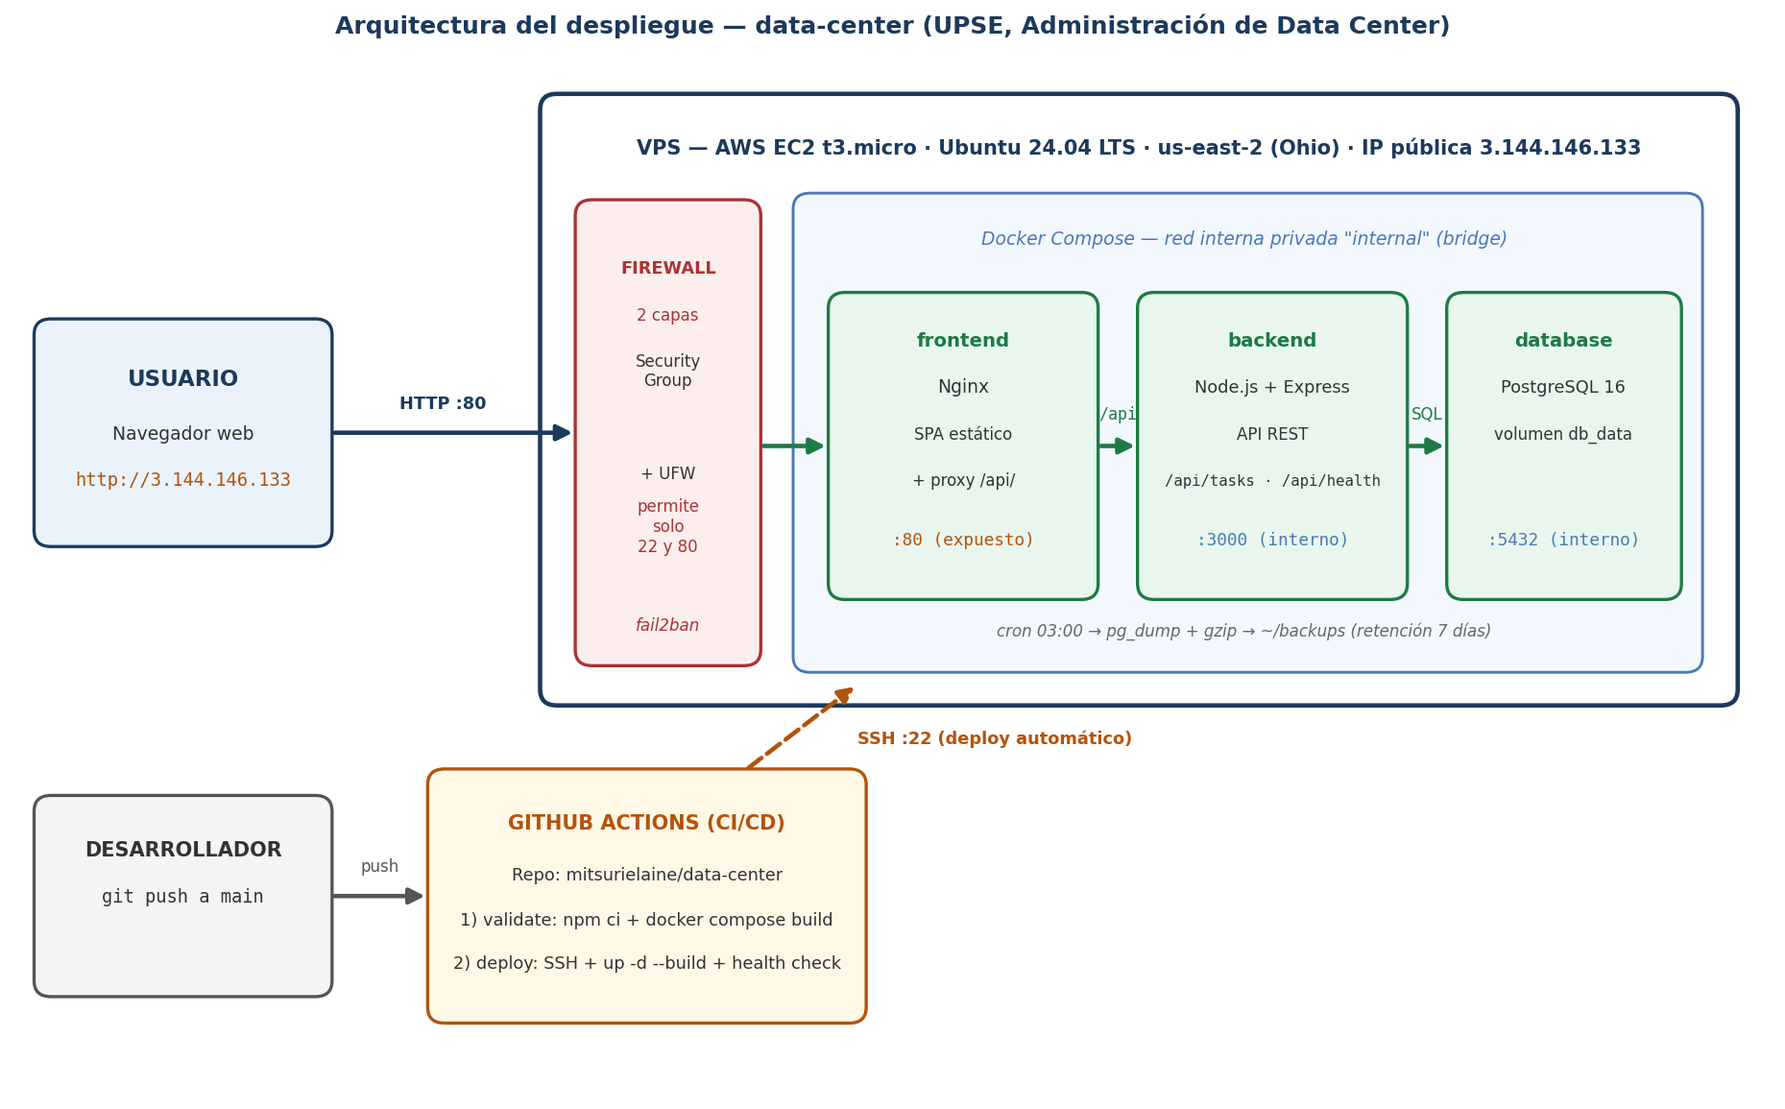
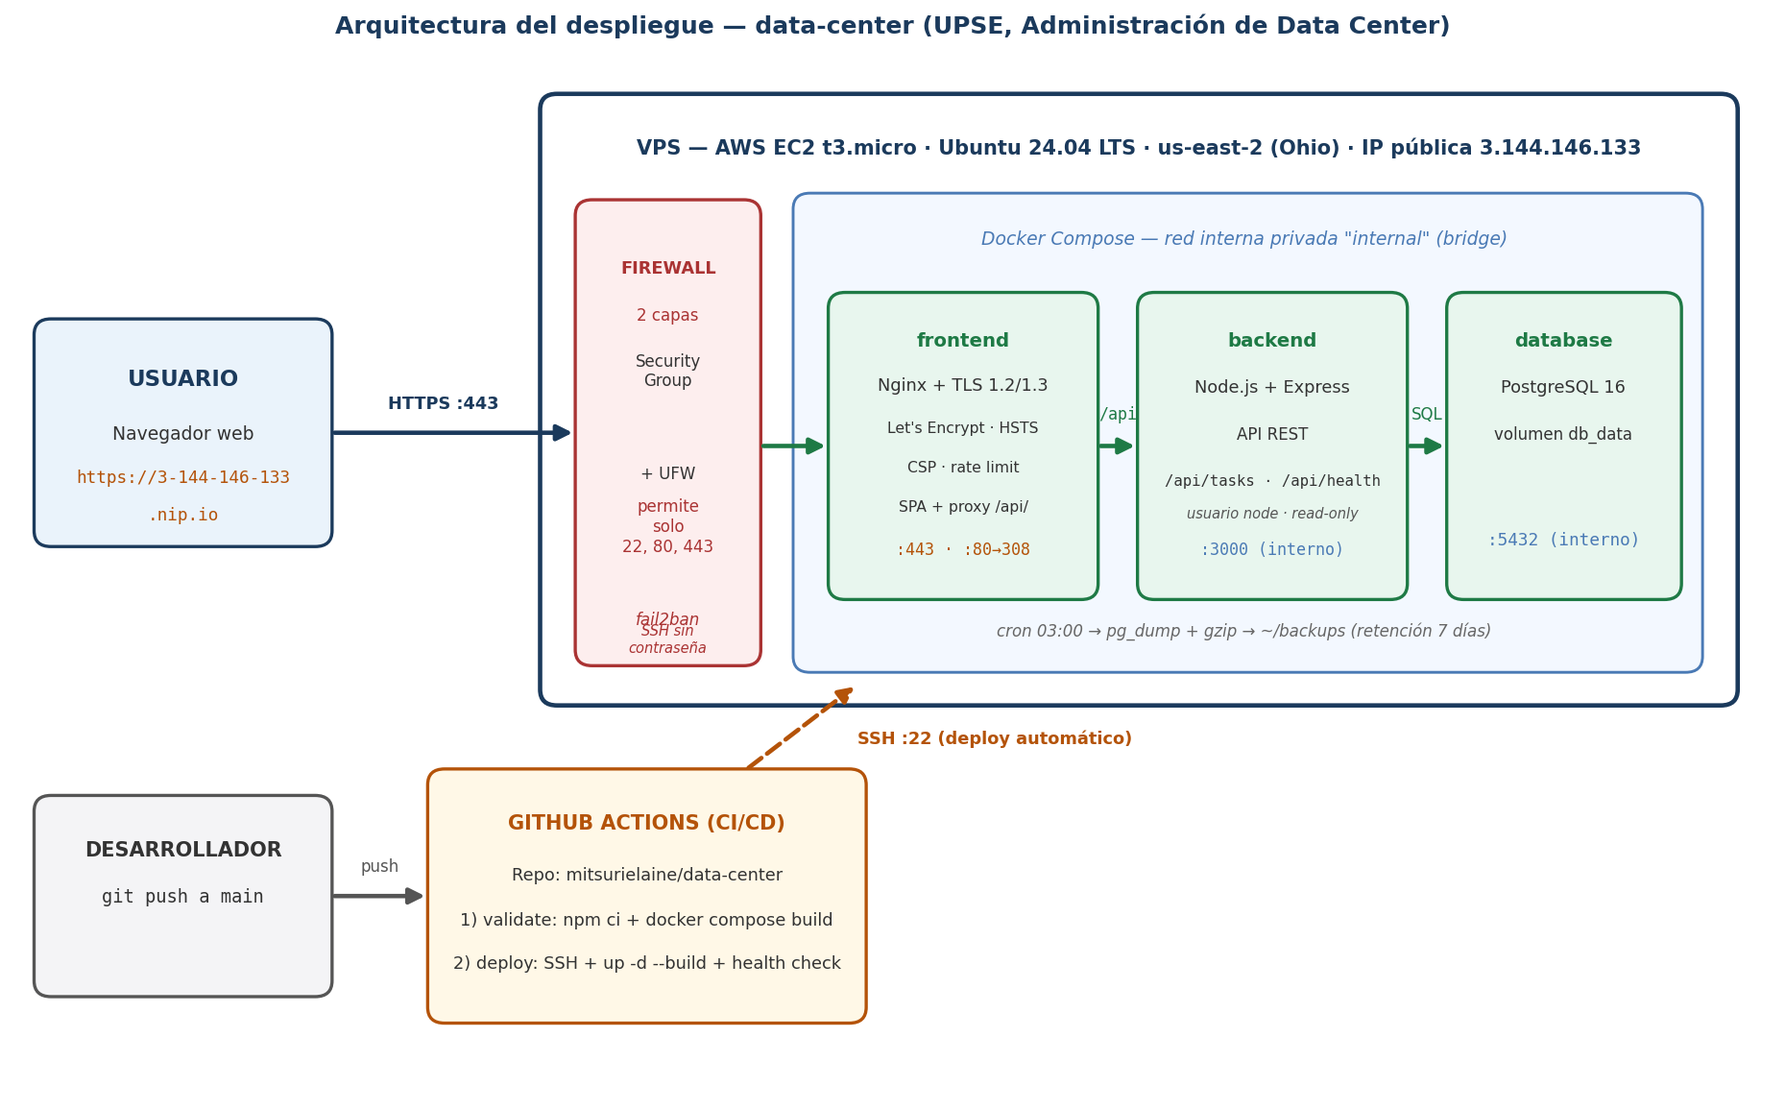
Documentar auditoria de seguridad (19 hallazgos corregidos), HTTPS y diagrama actualizado

diff --git a/INFORME_PLANTILLA.md b/INFORME_PLANTILLA.md
@@ -4,10 +4,11 @@
 **Docente:** Ing. Carlos Muñoz M.
 **Autor:** Marisa Eliana Matias Alcivar
 
-> Esta plantilla sigue exactamente las 4 secciones que exige el enunciado (punto 2) y los 5
-> criterios de la rúbrica (punto 3). Cada `[COMPLETAR: ...]` se llena con datos reales una vez
-> hecho el despliegue — no se inventa nada, se documenta lo que realmente pasó (incluyendo
-> errores y cómo se resolvieron, como pide una bitácora real).
+> Este informe sigue las 4 secciones que exige el enunciado (punto 2) y los 5 criterios de la
+> rúbrica (punto 3), y añade una sección de auditoría de seguridad (5) con las correcciones
+> aplicadas sobre el servicio ya en producción. Todos los datos son reales y verificados: nada
+> está inventado. Se documentan también los errores que surgieron y cómo se resolvieron, como
+> corresponde a una bitácora real.
 
 ---
 
@@ -21,33 +22,38 @@ La aplicación se ejecuta en una única instancia EC2 de AWS mediante contenedor
 orquestados con Docker Compose. Tres servicios conforman el stack: un contenedor **frontend**
 (Nginx sirviendo el SPA estático y actuando como proxy inverso hacia la API), un contenedor
 **backend** (API REST en Node.js/Express) y un contenedor **database** (PostgreSQL 16). Los tres
-se comunican mediante una red bridge privada de Docker (`internal`); solo Nginx publica el
-puerto 80 hacia internet.
+se comunican mediante una red bridge privada de Docker (`internal`); solo Nginx publica puertos
+hacia internet: el 443 (HTTPS) para la aplicación y el 80 únicamente para redirigir a HTTPS y
+atender la validación del certificado.
 
-Acceso: `http://3.144.146.133` (sin dominio propio, según lo definido para este
-trabajo).
+Acceso: `https://3-144-146-133.nip.io` (HTTPS con certificado de Let's Encrypt). Al no
+disponer de dominio propio se emplea el servicio gratuito **nip.io**, que resuelve el
+subdominio a la IP que lleva incrustada en el nombre (3.144.146.133) sin necesidad de
+configurar DNS. Todo acceso por HTTP se redirige a HTTPS con un 308.
 
 ### 1.2 Diagrama de arquitectura
 
 ![Diagrama de arquitectura](diagrama_arquitectura.png)
 
-Usuario → HTTP:80 → VPS AWS EC2 (3.144.146.133) → [Security Group + UFW] → frontend
-(Nginx:80, único puerto expuesto) → backend (Node/Express:3000, red interna) → database
-(PostgreSQL 16:5432, red interna). En paralelo: desarrollador → push a `main` → GitHub
-Actions (validate + deploy por SSH:22) → VPS.
+Usuario → HTTPS:443 → VPS AWS EC2 (3.144.146.133) → [Security Group + UFW + fail2ban] →
+frontend (Nginx con TLS de Let's Encrypt, CSP y rate limiting; el 80 solo redirige con 308) →
+backend (Node/Express:3000, red interna, usuario sin privilegios y sistema de archivos de solo
+lectura) → database (PostgreSQL 16:5432, red interna). En paralelo: desarrollador → push a
+`main` → GitHub Actions (validate + deploy por SSH:22) → VPS.
 
 ### 1.3 Componentes principales
 
 | Componente | Tecnología | Función |
 |---|---|---|
 | Instancia VPS | AWS EC2 t3.micro, Ubuntu 24.04 LTS | Servidor real con IP pública 3.144.146.133 (región us-east-2, Ohio) |
-| Frontend | Nginx + HTML/CSS/JS | Sirve el SPA, proxy `/api/` hacia el backend |
-| Backend | Node.js + Express | API REST (`/api/tasks`, `/api/health`), solo en red interna |
+| Frontend | Nginx + HTML/CSS/JS | Sirve el SPA, termina TLS 1.2/1.3, aplica CSP y rate limiting, proxy `/api/` hacia el backend |
+| Certificados | Let's Encrypt + certbot | Certificado TLS para `3-144-146-133.nip.io`, renovación semanal automática |
+| Backend | Node.js + Express + helmet | API REST (`/api/tasks`, `/api/health`), solo en red interna, corre como usuario sin privilegios |
 | Database | PostgreSQL 16 | Persiste las tareas; puerto 5432 solo accesible internamente |
 | Orquestación | Docker Compose | `docker-compose.yml` versionado en Git |
 | CI/CD | GitHub Actions | Valida y despliega por SSH ante cada push a `main` |
-| Firewall de red | AWS Security Group | Filtra 22/80 a nivel de nube |
-| Firewall de sistema | UFW | Segunda capa de filtrado dentro del VPS |
+| Firewall de red | AWS Security Group | Filtra 22/80/443 a nivel de nube |
+| Firewall de sistema | UFW | Segunda capa de filtrado dentro del VPS (22/80/443) |
 | Respaldos | cron + `pg_dump` + gzip | Respaldo diario con retención de 7 días |
 
 ---
@@ -73,9 +79,12 @@ Actions (validate + deploy por SSH:22) → VPS.
 | 8 | Clonado del repositorio | Se generó una deploy key ED25519 dedicada en el VPS (`~/.ssh/deploy_key`) y se registró en el repo vía API de GitHub con `"read_only": true` (el servidor solo puede leer, nunca escribir). Con `~/.ssh/config` apuntando a esa llave, `git clone git@github.com:mitsurielaine/data-center.git ~/data-center` clonó sin problemas. |
 | 9 | Variables de entorno | `.env` creado a partir de `.env.example`; `DB_PASSWORD` generada directamente en el servidor con `openssl rand -hex 20` (nunca pasó por el chat ni quedó versionada — `.env` está en `.gitignore`). |
 | 10 | Primer despliegue | `docker compose up -d --build`: build completo en ~9 s (t3.micro con swap, sin cuelgues). `docker compose ps`: `data-center-db` (postgres:16-alpine) **healthy**, `data-center-backend` y `data-center-frontend` **Up**; solo el frontend publica `0.0.0.0:80->80`. `curl http://localhost/api/health` → `{"status":"ok","db":"connected"}`. |
-| 11 | Verificación funcional | `http://3.144.146.133/api/health` respondió `{"status":"ok","db":"connected"}` desde internet (verificado desde fuera de la red del VPS). CRUD probado manualmente en el navegador vía IP pública: se creó la tarea "Prueba de url", se marcó como completada, se probó el filtro por título y la eliminación. El panel muestra los contadores (pendientes/completadas/total) sincronizados con la base. | |
+| 11 | Verificación funcional | `http://3.144.146.133/api/health` respondió `{"status":"ok","db":"connected"}` desde internet (verificado desde fuera de la red del VPS). CRUD probado manualmente en el navegador vía IP pública: se creó la tarea "Prueba de url", se marcó como completada, se probó el filtro por título y la eliminación. El panel muestra los contadores (pendientes/completadas/total) sincronizados con la base. |
 | 12 | fail2ban | Instalado fail2ban 1.0.2 con el jail `sshd` activo (`systemctl enable --now fail2ban`). Mitiga fuerza bruta sobre SSH, necesario porque el puerto 22 se abrió a 0.0.0.0/0 para los runners de GitHub Actions (IPs dinámicas). |
-| 13 | Respaldos automáticos | Cron diario 03:00 con `pg_dump` + gzip, retención 7 días |
+| 13 | Respaldos automáticos | Cron diario 03:00 con `pg_dump` + gzip, retención 7 días. Prueba manual exitosa: `tasksdb_2026-07-24_022013.sql.gz` (976 B) generado en `~/backups/`. |
+| 14 | Auditoría de seguridad | Escaneo externo de la URL pública con Cloudflare URL Scanner + revisión manual del código (frontend, API, Dockerfiles y compose). 19 hallazgos detectados y corregidos — ver sección 5. |
+| 15 | HTTPS con Let's Encrypt | Puerto 443 abierto en Security Group y UFW. Certificado emitido para `3-144-146-133.nip.io` mediante certbot con desafío HTTP-01 por webroot (válido hasta 2026-10-28). Renovación automática semanal por cron con recarga de Nginx. Se verificó el circuito ACME con un archivo de prueba antes de solicitar el certificado, para no consumir los intentos que limita Let's Encrypt. |
+| 16 | Endurecimiento del servidor | SSH: `PasswordAuthentication no`, `PermitRootLogin no`, `MaxAuthTries 3`, `AllowUsers ubuntu`. fail2ban: 3 intentos, baneo de 1 h, ventana de 10 min. `unattended-upgrades` habilitado para parches automáticos. `chmod 600` en `.env`. |
 
 ---
 
@@ -157,7 +166,106 @@ detectar incidentes sin entrar al servidor.
 
 ---
 
-## 5. Conclusión
+---
+
+## 5. Auditoría de Seguridad y Correcciones Aplicadas
+
+*(Rúbrica 4.4 — servicios optimizados y seguros)*
+
+Una vez el servicio estuvo en producción se realizó una auditoría en cuatro capas:
+un escaneo externo de la URL pública con **Cloudflare URL Scanner** (que reporta las
+cabeceras de respuesta y las peticiones que hace el sitio) y una **revisión manual del
+código** del frontend, de la API, de los Dockerfiles y del `docker-compose.yml`. Se
+detectaron 19 hallazgos y se corrigieron todos. La tabla resume cada uno con su
+evidencia de verificación.
+
+### 5.1 Capa de transporte y cabeceras HTTP
+
+| # | Hallazgo | Riesgo | Corrección aplicada | Verificación |
+|---|---|---|---|---|
+| 1 | Sitio servido solo por HTTP, sin cifrado | Alto — credenciales y datos viajan en claro; permite interceptación y modificación en tránsito | TLS 1.2/1.3 con certificado de Let's Encrypt para `3-144-146-133.nip.io` (servicio gratuito, sin dominio propio). Servicio `certbot` con desafío HTTP-01 por webroot y renovación automática semanal por cron | `curl -I https://3-144-146-133.nip.io` → `HTTP/2 200` con certificado válido |
+| 2 | Sin redirección de HTTP a HTTPS | Medio — el usuario podía seguir navegando sin cifrado | Redirección **308** (no 301: preserva el método, un 301 convertiría un POST en GET). El puerto 80 solo conserva el desafío ACME y la sonda de salud | `curl -I http://3-144-146-133.nip.io` → `308 Permanent Redirect` |
+| 3 | Sin `Strict-Transport-Security` (HSTS) | Medio — vulnerable a degradación a HTTP en la primera visita | HSTS con `max-age=31536000; includeSubDomains`, emitido solo cuando el certificado es de confianza | Cabecera `strict-transport-security` presente en la respuesta |
+| 4 | Sin `Content-Security-Policy` | Alto — sin defensa en profundidad frente a inyección de scripts | CSP restrictiva **sin `unsafe-inline`**: `default-src 'self'`, `object-src 'none'`, `frame-ancestors 'none'`, `base-uri 'none'`. Exigió refactorizar el frontend (ver 5.2) | Cabecera `content-security-policy` completa en la respuesta |
+| 5 | Divulgación de la versión del servidor (`Server: nginx/1.27.5`) | Bajo — facilita al atacante buscar exploits de esa versión exacta | `server_tokens off` | La respuesta ahora dice solo `Server: nginx` |
+| 6 | Faltaban `Permissions-Policy`, `Cross-Origin-Opener-Policy`, `Cross-Origin-Resource-Policy` y `X-Permitted-Cross-Domain-Policies` | Bajo/Medio | Las cuatro cabeceras añadidas | Verificadas con `curl -I` |
+| 7 | `X-Frame-Options: SAMEORIGIN` (permisivo) y cabeceras sin `always` | Bajo — nginx omitía las cabeceras en respuestas de error 4xx/5xx, justo donde más importan | `X-Frame-Options: DENY` y todas las cabeceras con el modificador `always` | Cabeceras presentes también en respuestas 404 |
+| 8 | Sin limitación de tasa ni de conexiones | Medio — permitía abuso automatizado y fuerza bruta del CRUD | `limit_req_zone` a 10 r/s por IP con ráfaga de 20, `limit_conn` a 20 conexiones por IP, y `client_max_body_size 16k` en `/api/` | 30 peticiones seguidas: 26 → `200`, 4 → `429` |
+| 9 | Tiempos de espera sin acotar | Bajo — conexiones lentas podían agotar los procesos de Nginx (tipo Slowloris) en una instancia de 1 GiB | `client_body_timeout`, `client_header_timeout`, `send_timeout` y `keepalive_timeout` acotados | Configuración validada con `nginx -t` en cada build |
+
+### 5.2 Frontend
+
+| # | Hallazgo | Riesgo | Corrección aplicada | Verificación |
+|---|---|---|---|---|
+| 10 | **XSS real**: el texto escrito en el filtro se insertaba sin escapar en el DOM al no haber coincidencias | **Alto** — con `<img src=x onerror=alert(1)>` en el buscador se ejecutaba JavaScript arbitrario en la página | El valor del filtro pasa por `escapeHtml()` antes de insertarse | Se probó el payload en el campo de filtro: ahora se muestra como texto literal, sin ejecutarse |
+| 11 | Notificaciones construidas con `innerHTML` | Bajo — no explotable con los mensajes actuales, pero un patrón frágil | Reconstruidas con `createElement` y `textContent` | Revisión de código |
+| 12 | Atributos `onclick` inline en cada fila | Medio — obligaban a permitir `unsafe-inline` en la CSP, anulando su protección | Reemplazados por **delegación de eventos** con `data-action`; CSS y JS extraídos a `styles.css` y `app.js` | La CSP sin `unsafe-inline` funciona y el CRUD sigue operativo |
+
+### 5.3 API (Express)
+
+| # | Hallazgo | Riesgo | Corrección aplicada | Verificación |
+|---|---|---|---|---|
+| 13 | `cors()` sin opciones → `Access-Control-Allow-Origin: *` | **Alto** — cualquier sitio web podía consumir la API desde el navegador de la víctima | Se eliminó la dependencia `cors`. El frontend es del mismo origen vía proxy, así que no se envía ninguna cabecera CORS; si alguna vez se necesita, se declara un origen concreto en `CORS_ORIGIN` | La respuesta ya no incluye `access-control-allow-origin` |
+| 14 | Sin cabeceras de seguridad ni ocultamiento de tecnología (`X-Powered-By: Express`) | Bajo | `helmet` + `app.disable('x-powered-by')` | `curl -I` sobre la API: sin `x-powered-by`, con cabeceras de helmet |
+| 15 | Sin validación de tipos ni de longitud; cuerpo JSON sin límite | Medio — un objeto o arreglo en `title` llegaba al driver de PostgreSQL, un `id` no numérico producía un 500, y un payload gigante podía agotar la memoria del contenedor | Validación estricta de tipo y longitud (máx. 255), `id` validado como entero positivo, `express.json({ limit: '10kb' })` y manejador de errores que nunca expone el stack | 9 casos probados: título objeto, vacío y de 300 caracteres, `id` no numérico, `completed` no booleano, JSON malformado y cuerpo de 20 kB → todos responden `400`/`413` con mensaje limpio |
+| 16 | Sin limitación de tasa en la aplicación | Medio | `express-rate-limit` a 120 peticiones/minuto por IP, con `trust proxy` para leer la IP real detrás de Nginx | Tras superar el umbral la API responde `429` |
+
+### 5.4 Contenedores y servidor
+
+| # | Hallazgo | Riesgo | Corrección aplicada | Verificación |
+|---|---|---|---|---|
+| 17 | El backend corría como **root** dentro del contenedor; `npm install` no reproducible y ejecutaba scripts `postinstall` | **Alto** — una ejecución de código en el contenedor obtenía privilegios administrativos; los scripts de dependencias son un vector de cadena de suministro | `USER node` (uid 1000), `npm ci --omit=dev --ignore-scripts`, `read_only: true` con `/tmp` en tmpfs, `cap_drop: ALL` y `no-new-privileges` | `docker compose exec backend id` → `uid=1000(node)` |
+| 18 | Sin límites de recursos, sin rotación de logs y sin healthchecks en frontend y backend | Medio — un contenedor podía consumir toda la RAM de la instancia, y los logs sin rotar podían llenar el disco de 20 GiB (denegación de servicio por agotamiento) | Límites de CPU y memoria por servicio (320M/256M/128M), `json-file` con `max-size: 10m` y `max-file: 3`, y healthcheck en los tres contenedores | `docker compose ps` muestra los tres como `healthy` |
+| 19 | SSH con el puerto 22 abierto a 0.0.0.0/0 y configuración por defecto; `.env` con permisos amplios | Alto — superficie de fuerza bruta abierta a todo internet | `PasswordAuthentication no`, `PermitRootLogin no`, `MaxAuthTries 3`, `AllowUsers ubuntu`; fail2ban endurecido (3 intentos, baneo de 1 h); `unattended-upgrades` activo; `chmod 600` en `.env`; puerto 443 añadido a UFW | `sshd -t` correcto, `fail2ban-client status sshd` activo, `unattended-upgrades` habilitado |
+
+### 5.5 Hallazgos aceptados y justificados
+
+- **Dependencia de Google Fonts.** El SPA carga tipografías desde `fonts.googleapis.com`, lo que revela la IP del visitante a un tercero. Es un asunto de privacidad, no una vulnerabilidad explotable: se mantiene por coherencia visual con la entrega y se declara de forma **explícita** en la CSP (`style-src` y `font-src` acotados a esos dos dominios), de modo que ningún otro origen externo puede cargar recursos. La remediación completa sería autoalojar las fuentes.
+- **Puerto 22 accesible desde cualquier IP.** Lo exige el pipeline, porque los runners de GitHub Actions no tienen IP fija. Se mitiga con autenticación exclusivamente por llave, fail2ban y la restricción `AllowUsers`. La alternativa ideal sería un runner autoalojado o AWS Systems Manager, que evitarían exponer SSH.
+
+### 5.6 Controles de seguridad incorporados al pipeline
+
+Para que estas correcciones no se degraden con el tiempo, el job `validate` ahora
+también actúa como control de seguridad continuo:
+
+- `npm audit --audit-level=high` falla la construcción si aparece una vulnerabilidad
+  alta o crítica en las dependencias.
+- El `Dockerfile` del frontend valida con `nginx -t` **las dos** configuraciones
+  posibles (HTTP y TLS) durante el build, de modo que un error de configuración
+  detiene el pipeline antes de llegar a producción, en lugar de tumbar el sitio.
+
+### 5.7 Incidencias reales durante la corrección
+
+Como en el resto de la bitácora, se documentan los problemas que surgieron:
+
+1. **El pipeline falló dos veces seguidas en el job `validate`** y el despliegue no se
+   aplicó (los contenedores seguían con 6 días de antigüedad). Lo confirmó el "Last
+   login" del servidor, que no registraba la conexión del pipeline.
+2. **Primera causa:** el Dockerfile intentaba escribir en `/etc/hosts` para que
+   `nginx -t` resolviera el nombre `backend`, pero BuildKit monta ese archivo como
+   solo lectura. Se resolvió de una forma que además mejora el servicio: usar el DNS
+   interno de Docker (`resolver 127.0.0.11`) con el upstream en una variable, así
+   Nginx ya no fija la IP del backend al arrancar y sobrevive a un cambio de IP del
+   contenedor.
+3. **Segunda causa:** `nginx: [emerg] "keepalive_timeout" directive is duplicate`. La
+   imagen oficial ya declara esa directiva en el contexto `http`, y nginx aborta ante
+   un duplicado. Se movió al contexto `server`.
+4. **Aprendizaje sobre `add_header`:** en Nginx, un `add_header` dentro de un `location`
+   **reemplaza** todos los heredados del bloque `server`. El HSTS, declarado
+   inicialmente a nivel de `server`, habría desaparecido de todas las respuestas
+   reales. Se detectó revisando la configuración antes de desplegar y se movió al
+   mismo snippet que el resto de cabeceras.
+5. **Orden de despliegue seguro:** el certificado no puede emitirse si Nginx no sirve
+   el puerto 80, pero Nginx no arranca si su configuración apunta a un certificado que
+   aún no existe. Se resolvió con un script de entrypoint que detecta si el
+   certificado está presente y sirve la configuración HTTP o TLS según corresponda,
+   de modo que el sitio nunca queda caído. Antes de pedir el certificado a Let's
+   Encrypt (que limita los intentos) se validó el circuito ACME con un archivo de
+   prueba.
+
+---
+
+## 6. Conclusión
 
 La infraestructura desplegada cumple los cuatro requisitos técnicos del enunciado: un VPS real
 (AWS EC2 t3.micro con Ubuntu 24.04, IP pública 3.144.146.133), un stack completo de tres capas con
@@ -165,13 +273,24 @@ base de datos relacional (Nginx + Node.js/Express + PostgreSQL 16, orquestado co
 sobre una red interna privada), un pipeline de CI/CD que valida y despliega automáticamente por SSH
 en cada push a `main` (verificado con un despliegue real de extremo a extremo), y un plan de
 mantenimiento con firewall en dos capas (Security Group + UFW), fail2ban y respaldos diarios
-automatizados de la base de datos. Todo el proceso quedó documentado como bitácora real, incluyendo
-los problemas encontrados y su resolución.
+automatizados de la base de datos.
 
-## 6. Anexos
+Además, el servicio se sometió a una auditoría de seguridad posterior a la puesta en producción
+(sección 5) que combinó un escaneo externo con una revisión manual del código. Se identificaron y
+corrigieron 19 hallazgos, entre ellos tres de riesgo alto: la ausencia de cifrado en tránsito
+—resuelta con HTTPS y certificado de Let's Encrypt—, un XSS real en el filtro del frontend y una
+política CORS abierta a cualquier origen. El endurecimiento alcanzó las cuatro capas del sistema:
+transporte, aplicación, contenedores y sistema operativo. Los controles se incorporaron al propio
+pipeline (auditoría de dependencias y validación de la configuración de Nginx en cada build) para
+que las correcciones no se degraden con el tiempo. Todo el proceso quedó documentado como bitácora
+real, incluyendo los problemas encontrados y su resolución.
+
+## 7. Anexos
 
 - Anexo 1: Instancia EC2 `data-center-vps` en ejecución en la consola de AWS (IP 3.144.146.133).
 - Anexo 2: Reglas de entrada del Security Group `data-center-sg` (SSH 22 y HTTP 80).
 - Anexo 3: Pestaña Actions de GitHub — run #2 en verde (`validate` 16s + `deploy` 24s) tras el push de prueba; run #1 en rojo (push inicial, antes de existir el VPS).
 - Anexo 4: `docker compose ps` en el VPS mostrando los 3 contenedores (db healthy, backend y frontend up).
-- Anexo 5: La aplicación funcionando en el navegador vía `http://3.144.146.133` (CRUD sobre PostgreSQL).
+- Anexo 5: La aplicación funcionando en el navegador vía `https://3-144-146-133.nip.io` (CRUD sobre PostgreSQL, con certificado válido).
+- Anexo 6: Cabeceras de seguridad y certificado TLS verificados con `curl -I` tras la auditoría.
+- Anexo 7: Prueba del XSS corregido — el payload `<img src=x onerror=alert(1)>` escrito en el filtro se muestra como texto literal, sin ejecutarse.

diff --git a/README.md b/README.md
@@ -3,6 +3,8 @@
 Aplicación web (SPA) para gestión de tareas (To-Do List) con CRUD completo y filtro en tiempo real, construida para el
 **Trabajo Práctico: Despliegue Automatizado y Administración de Servicios en VPS** (Administración de Data Center, UPSE).
 
+**En producción:** https://3-144-146-133.nip.io (HTTPS con certificado de Let's Encrypt)
+
 ## Stack
 
 - **Frontend:** HTML/CSS/JS puro, sin build step, servido por **Nginx** (también actúa como proxy inverso hacia la API).
